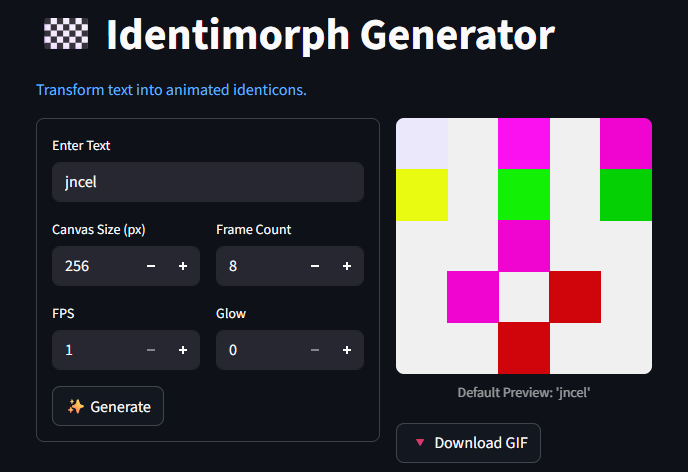
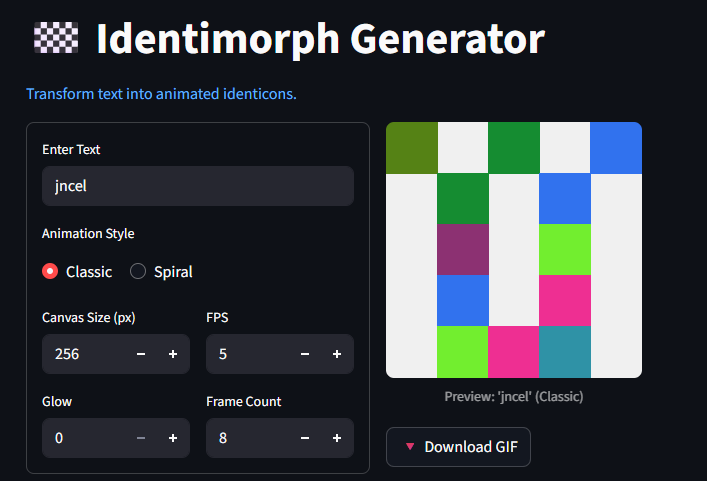
Added spiral animation feature

diff --git a/main.py b/main.py
@@ -1,5 +1,5 @@
 import streamlit as st
-from identimorph.identimorph import identimorph
+from identimorph.identimorph import identimorph, identimorph_spiral
 from io import BytesIO
 
 
@@ -17,55 +17,60 @@ st.write(":blue[Transform text into animated identicons.]")
 
 maincol = st.columns(2)
 
-with maincol[0]:
-    with st.form(key="identimorph_form"):
-        text = st.text_input("Enter Text", value="jncel")
-        settingcol = st.columns(2)
 
+with maincol[0]:
+    with st.container(border=True):
+        text = st.text_input("Enter Text", value="jncel")
+        style = st.radio("Animation Style", [
+                         "Classic", "Spiral"], horizontal=True)
+
+        settingcol = st.columns(2)
         size = settingcol[0].number_input("Canvas Size (px)", min_value=64,
                                           max_value=512, value=256, step=16)
-        frames = settingcol[1].number_input("Frame Count", min_value=1,
-                                            max_value=64, value=8, step=1)
-        fps = settingcol[0].number_input("FPS", min_value=1,
-                                         max_value=30, value=1)
-        glow = settingcol[1].number_input(
-            "Glow", min_value=0, max_value=10, value=0)
+        fps = settingcol[1].number_input("FPS", min_value=1,
+                                         max_value=30, value=5)
+        glow = settingcol[0].number_input("Glow", min_value=0,
+                                          max_value=10, value=0)
 
-        generate = st.form_submit_button("✨ Generate")
+        if style == "Classic":
+            frames = settingcol[1].number_input("Frame Count", min_value=1,
+                                                max_value=64, value=8, step=1)
+            blocks = None
+        else:
+            blocks = settingcol[1].number_input("Block Count", min_value=3,
+                                                max_value=10, value=5, step=1)
+            frames = None
 
 with maincol[1]:
-    preview = st.container()
-    with preview:
-        if generate:
-            buffer = NamedBytesIO("identimorph.gif")
-            identimorph(
-                text=text,
-                frames=frames,
-                size=size,
-                glow=glow,
-                fps=fps,
-                output_path=buffer
-            )
-            buffer.seek(0)
+    buffer = NamedBytesIO(f"{text}_{style.lower()}.gif")
 
-            st.image(buffer, caption=f"Preview: '{text}'", width=size)
-            st.download_button(
-                label="🔻 Download GIF",
-                data=buffer.getvalue(),
-                file_name=f"{text}_identimorph.gif",
-                mime="image/gif"
-            )
-        else:
-            with open("sample/jncel_identimorph.gif", "rb") as file:
-                default_gif = file.read()
-                st.image(
-                    default_gif, caption="Default Preview: 'jncel'", width=256)
-                st.download_button(
-                    label="🔻   Download GIF",
-                    data=default_gif,
-                    file_name=f"{text}_identimorph.gif",
-                    mime="image/gif"
-                )
+    if style == "Spiral":
+        identimorph_spiral(
+            text=text,
+            blocks=blocks,
+            size=size,
+            glow=glow,
+            fps=fps,
+            output_path=buffer
+        )
+    else:
+        identimorph(
+            text=text,
+            frames=frames,
+            size=size,
+            glow=glow,
+            fps=fps,
+            output_path=buffer
+        )
+
+    buffer.seek(0)
+    st.image(buffer, caption=f"Preview: '{text}' ({style})", width=size)
+    st.download_button(
+        label="🔻 Download GIF",
+        data=buffer.getvalue(),
+        file_name=f"{text}_{style.lower()}.gif",
+        mime="image/gif"
+    )
 
 st.markdown("""
 <a href="https://coff.ee/jncel" target="_blank">

diff --git a/identimorph/identimorph.py b/identimorph/identimorph.py
@@ -15,6 +15,7 @@ def create_identimorph_grid(hash_bytes: np.ndarray, blocks: int) -> np.ndarray:
     return np.hstack((grid_half, mirror))
 
 
+# Classic hash-varying frames: A_0, A_1, ...
 def draw_active_blocks(base_img, grid: np.ndarray, block_size: int, hash_bytes: np.ndarray, glow: int) -> Image.Image:
     for y, x in np.argwhere(grid):
         color = tuple(hash_bytes[(x + y) % 32:(x + y) % 32 + 3])
@@ -25,9 +26,7 @@ def draw_active_blocks(base_img, grid: np.ndarray, block_size: int, hash_bytes: 
         y0 = int(y * block_size)
         x1 = int((x + 1) * block_size)
         y1 = int((y + 1) * block_size)
-        coords = [x0, y0, x1, y1]
-
-        draw.rectangle(coords, fill=color + (255,))
+        draw.rectangle([x0, y0, x1, y1], fill=color + (255,))
 
         if glow > 0:
             glow_img = block_img.filter(ImageFilter.GaussianBlur(glow))
@@ -62,4 +61,88 @@ def identimorph(text: str = "github.com/j-ncel", frames: int = 12, size: int = 1
         duration=frame_duration,
         loop=0
     )
-    print(f"You identimorph was saved as {output_path}")
+    print(f"✅ Classic identimorph saved as: {output_path}")
+
+
+# Spiral mode functions
+def get_spiral_order(shape):
+    h, w = shape
+    spiral = []
+    top, left = 0, 0
+    bottom, right = h - 1, w - 1
+
+    while top <= bottom and left <= right:
+        # Right
+        for x in range(left, right + 1):
+            spiral.append((top, x))
+        top += 1
+
+        # Down
+        for y in range(top, bottom + 1):
+            spiral.append((y, right))
+        right -= 1
+
+        # Left
+        if top <= bottom:
+            for x in range(right, left - 1, -1):
+                spiral.append((bottom, x))
+            bottom -= 1
+
+        # Up
+        if left <= right:
+            for y in range(bottom, top - 1, -1):
+                spiral.append((y, left))
+            left += 1
+
+    return spiral
+
+
+def draw_spiral_blocks(grid, hash_bytes, block_size, glow, step_limit) -> Image.Image:
+    height, width = grid.shape
+    base_img = Image.new("RGB", (int(width * block_size),
+                         int(height * block_size)), (240, 240, 240))
+    spiral_coords = get_spiral_order(grid.shape)
+
+    for idx, (y, x) in enumerate(spiral_coords):
+        if idx > step_limit or not grid[y, x]:
+            continue
+
+        color = tuple(hash_bytes[(x + y) % 32:(x + y) % 32 + 3])
+        block_img = Image.new("RGBA", base_img.size, (0, 0, 0, 0))
+        draw = ImageDraw.Draw(block_img)
+
+        x0 = int(x * block_size)
+        y0 = int(y * block_size)
+        x1 = int((x + 1) * block_size)
+        y1 = int((y + 1) * block_size)
+        draw.rectangle([x0, y0, x1, y1], fill=color + (255,))
+
+        if glow > 0:
+            glow_img = block_img.filter(ImageFilter.GaussianBlur(glow))
+            base_img = Image.alpha_composite(
+                base_img.convert("RGBA"), glow_img)
+
+        base_img.paste(block_img.convert("RGB"), (0, 0), block_img)
+
+    return base_img
+
+
+def identimorph_spiral(text="github.com/jncel", blocks=5, size=128, glow=0, fps=5, output_path="identimorph_spiral.gif"):
+    frame_duration = int(1000 / fps)
+    hash_bytes = get_hash_bytes(text)
+    grid = create_identimorph_grid(hash_bytes, blocks)
+    block_size = size / blocks
+    spiral_coords = get_spiral_order(grid.shape)
+    frames_list = [
+        draw_spiral_blocks(grid, hash_bytes, block_size, glow, step_limit=i)
+        for i in range(len(spiral_coords))
+    ]
+
+    frames_list[0].save(
+        output_path,
+        save_all=True,
+        append_images=frames_list[1:],
+        duration=frame_duration,
+        loop=0
+    )
+    print(f"Spiral identimorph saved as: {output_path}")

diff --git a/README.md b/README.md
@@ -6,8 +6,8 @@
 
 [**Identimorph**](https://identimorph.streamlit.app/) is a tool that creates animated identicons from text using hash-based pixel symmetry. See the example below.
 
-![Preview Identimorph GIF](sample/jncel_identimorph.gif)  
-_identimorph of 'jncel' string_
+![Preview Identimorph GIF](sample/jncel_identimorph.gif) ![Preview Identimorph-SPIRAL GIF](sample/jncel_spiral.gif)  
+_identimorph of 'jncel' string_ for default and spiral drawing.
 
 ## Features
 
